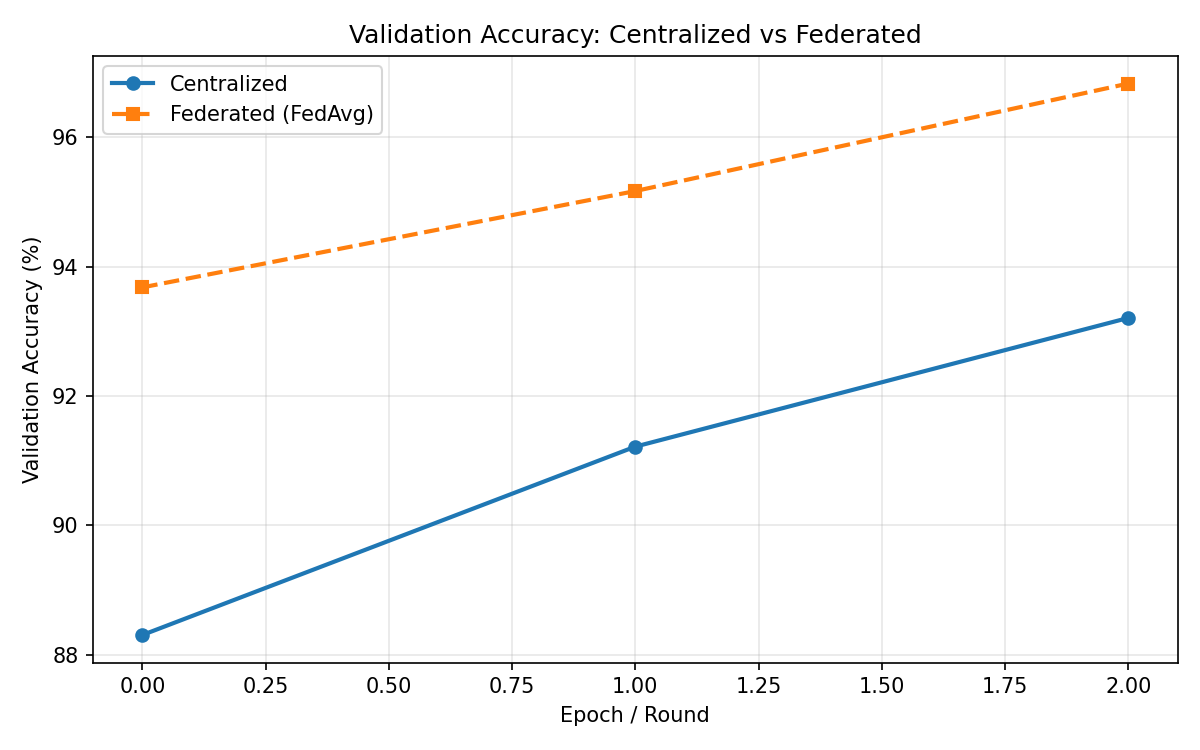
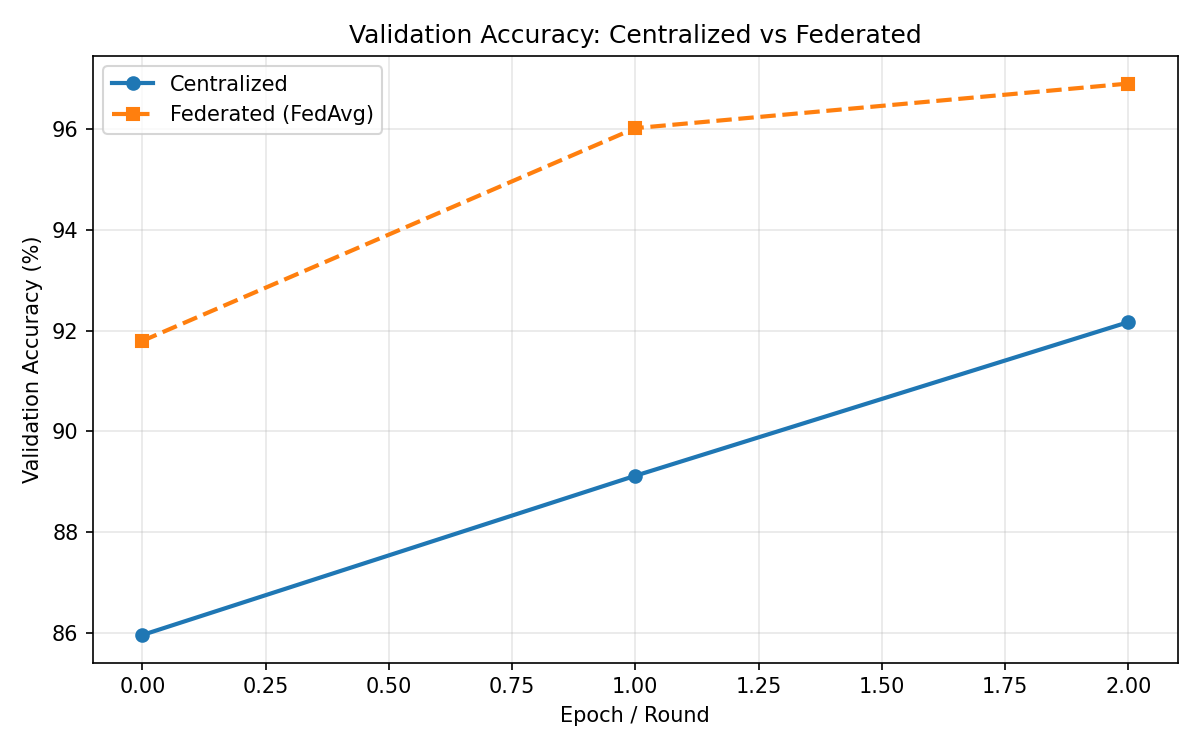
clean stuff

diff --git a/src/overlay/comparison_overlay.py b/src/overlay/comparison_overlay.py
@@ -30,11 +30,14 @@ mnist_testset = datasets.MNIST(root = './data', train = False, download = True, 
 gl_model = CNN()
 model = CNN()
 NUMBER_OF_CLIENTS = 5
+NUMBER_OF_EPOCHS = 3
+NUMBER_OF_ROUNDS = 3
+DIRICHLET_ALPHA = 0.1
 # %%
 # Data Loaders
 client_training_loaders = create_dirichlet_client_loaders(number_of_clients = NUMBER_OF_CLIENTS,
                                                           mnist_trainset = mnist_trainset,
-                                                          alpha = 0.5)
+                                                          alpha = DIRICHLET_ALPHA)
 train_loader = DataLoader(mnist_trainset, batch_size = 64, shuffle = True)
 ###
 # this will show what digits each client has
@@ -44,19 +47,20 @@ val_loader = DataLoader(mnist_valset, batch_size = 64, shuffle = False)
 test_loader = DataLoader(mnist_testset, batch_size=64, shuffle=False)
 
 # %%
-central_losses, central_val_accs = run_centralised_ml(number_of_epochs = 3,
-                   train_loader = train_loader,
-                   val_loader = val_loader,
-                   test_loader = test_loader,
-                   model = model)
+central_losses, central_val_accs  =  run_centralised_ml(number_of_epochs = NUMBER_OF_EPOCHS,
+                                                      train_loader = train_loader,
+                                                      val_loader = val_loader,
+                                                      test_loader = test_loader,
+                                                      model = model)
+
 # Now we need to aggregate the results with FedAvg
-fed_losses, fed_val_accs = run_fl(number_of_rounds = 3,
-       number_of_clients = NUMBER_OF_CLIENTS,
-       epochs = 3,
-       global_model = gl_model,
-       client_training_loaders = client_training_loaders,
-       val_loader = val_loader,
-       test_loader = test_loader)
+fed_losses, fed_val_accs        =       run_fl(number_of_rounds = NUMBER_OF_ROUNDS,
+                                              number_of_clients = NUMBER_OF_CLIENTS,
+                                              epochs = NUMBER_OF_EPOCHS,
+                                              global_model = gl_model,
+                                              client_training_loaders = client_training_loaders,
+                                              val_loader = val_loader,
+                                              test_loader = test_loader)
 
 plot_loss_overlay(central_losses, fed_losses)
 plot_acc_overlay(central_val_accs, fed_val_accs)
